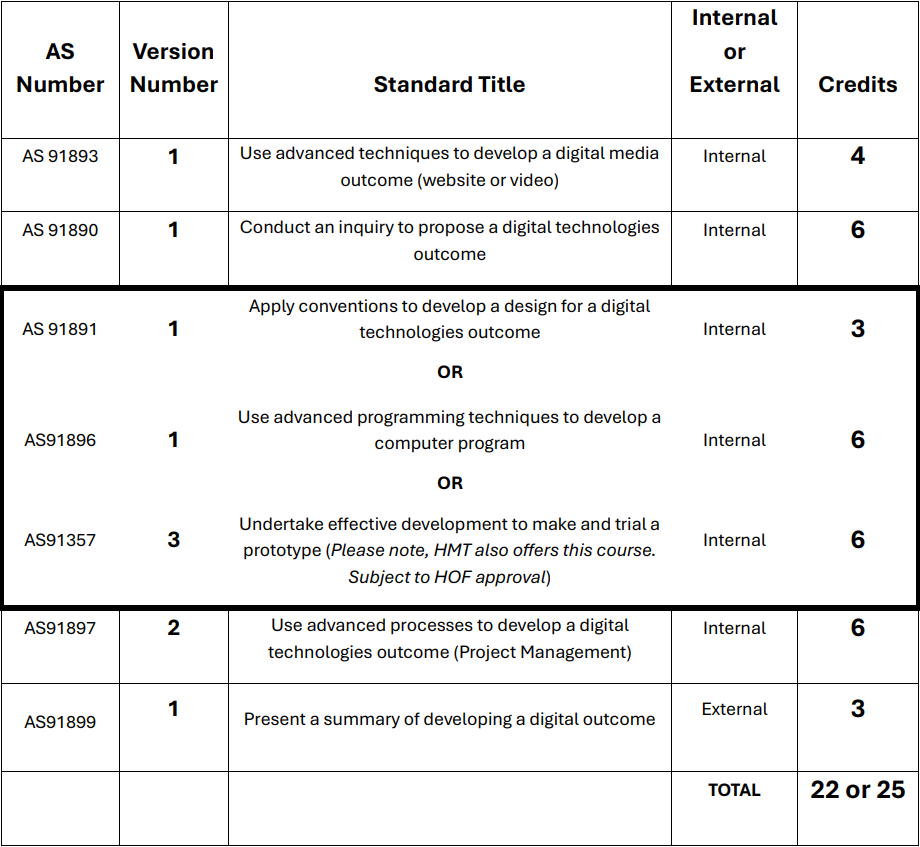
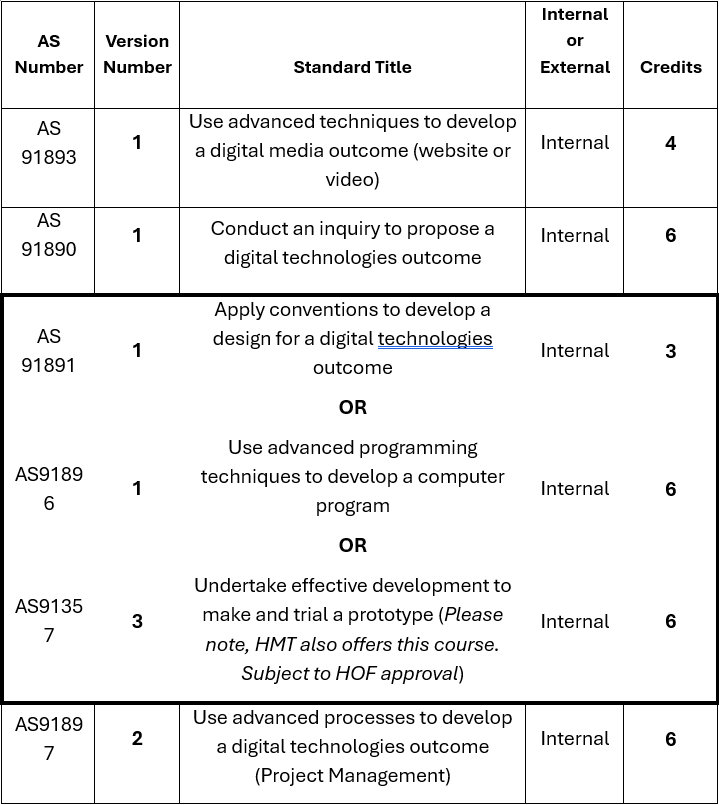
Fixed Standards Offered Images (made text larger)

diff --git a/Term 1 2026 DGT Website/dgt_course_outline_y11.html b/Term 1 2026 DGT Website/dgt_course_outline_y11.html
@@ -155,6 +155,13 @@
                 <h3>General:</h3>
                 <p>Digital Technologies is an exciting field of growth in terms of both industry developments, as well as huge potential in the job market.  How much you get out of this course will have a lot to do with how much you put in.  The aim of this course is to introduce you to the Technological Process, as well as give you a taste of a broad range of the areas that Digital Technologies offers: Digital Information; Digital Media; Programming and Computer Science; and Digital Infrastructures. The aim is to expose you to as many aspects of digital technologies as is practicable in order that you have the opportunity to explore areas of interest and discover aptitudes that you may have and which could lead to further study or even avenues of employment in the future.</p>
             </div>
+
+
+            <div>
+                <h3>KWS Standard Offered</h3>
+                <img class = "standards_offered" src="images/year_11_standards_offered.png" alt="Table of info about KWS standard offered">
+
+            </div>
                 
             
             
@@ -173,7 +180,7 @@
         <div class = "margin">
             <div class = "download_div">
                 <p class = "download_text">Year 11 DGT Course outlines 2026 pdf:</p>
-                <a class = "download_link" href="documents/year-11-dgt-course-outline-2026.pdf" >Download</a>
+                <a class = "download_link" href="documents/year-11-dgt-course-outline-2026.pdf" download>Download</a>
             </div>
         </div>
 

diff --git a/Term 1 2026 DGT Website/dgt_course_outline_y13.html b/Term 1 2026 DGT Website/dgt_course_outline_y13.html
@@ -161,6 +161,12 @@
                 <p>Digital Technologies is an exciting field of growth in terms of both industry developments, as well as huge potential in the job market.  How much you get out of this course will have a lot to do with how much you put in.  This course requires a high degree of personal discipline with time management and planning in order for you to meet your academic goals.  I will help in any way I can to make your year a success.</p>
             </div>
 
+            <div>
+                <h3>KWS Standard Offered</h3>
+                <img class = "standards_offered" src="images/level_3_standards_offered.png" alt="Table of info about NCEA standard offered">
+                
+            </div>
+
             <div class = "sign_off">
                 <p>Many blessings for the coming year!</p>
                 <!-- might need to add signature -->
@@ -174,7 +180,7 @@
         <div class = "margin">
             <div class = "download_div">
                 <p class = "download_text">Level 3 DGT Course outlines 2026 pdf:</p>
-                <a class = "download_link" href="documents/level-3-dgt-course-outline-2026.pdf" >Download</a>
+                <a class = "download_link" href="documents/level-3-dgt-course-outline-2026.pdf" download>Download</a>
             </div>
         </div>
 

diff --git a/Term 1 2026 DGT Website/dgt_course_outline_y12.html b/Term 1 2026 DGT Website/dgt_course_outline_y12.html
@@ -163,6 +163,12 @@
                 <h3>General:</h3>
                 <p>Digital Technologies is an exciting field of growth in terms of both industry developments, as well as huge potential in the job market.  How much you get out of this course will have a lot to do with how much you put in.  This course requires a high degree of personal discipline with time management and planning in order for you to meet your academic goals.  I will help in any way I can to make your year a success.</p>
             </div>
+
+
+            <div>
+                <h3>NCEA Standard Offered</h3>
+                <img class = "standards_offered" src="images/level_2_standards_offered.png" alt="Table of info about NCEA standard offered">
+            </div>
             
 
             <div class = "sign_off">
@@ -179,7 +185,7 @@
         <div class = "margin">
             <div class = "download_div">
                 <p class = "download_text">Level 2 DGT Course outlines 2026 pdf:</p>
-                <a class = "download_link" href="documents/level-2-dgt-course-outline-2026.pdf" >Download</a>
+                <a class = "download_link" href="documents/level-2-dgt-course-outline-2026.pdf" download>Download</a>
             </div>
         </div>
 

diff --git a/Term 1 2026 DGT Website/index.html b/Term 1 2026 DGT Website/index.html
@@ -34,7 +34,7 @@ could add at the top of each page whho shhould be reading the infomation
 
     <body>
         <!-- div that puts the a background around the title and the navbar -->
-        <div class = "new_title_background" id = "paralax_title">
+        
             
             <!-- Nav Bar where all the links to other pages are -->
             <nav> 
@@ -60,7 +60,7 @@ could add at the top of each page whho shhould be reading the infomation
                         </div>
                     </div>
             </nav>       
-
+        <div class = "new_title_background" id = "paralax_title">
             <!-- title and its background -->
             <div class = "title">
                 <div class = "behind_text">

diff --git a/Term 1 2026 DGT Website/styles/style.css b/Term 1 2026 DGT Website/styles/style.css
@@ -41,7 +41,6 @@ nav {
   display:flex;
   justify-content: space-between;
   flex-wrap: wrap;
-  
 }
 
 
@@ -536,6 +535,13 @@ p.footer_text{
 }
 
 
+.standards_offered{
+  width:800px;
+}
+
+
+
+
 
 
 
@@ -569,6 +575,14 @@ p.footer_text{
     justify-content: start;
   }
 }
+
+@media all and (max-width:900px){
+  .standards_offered{
+    width: 100%
+  }
+}
+
+
 
 @media (max-width: 520px) {
   /* centers everything is that button div* and puts the button under the text/
